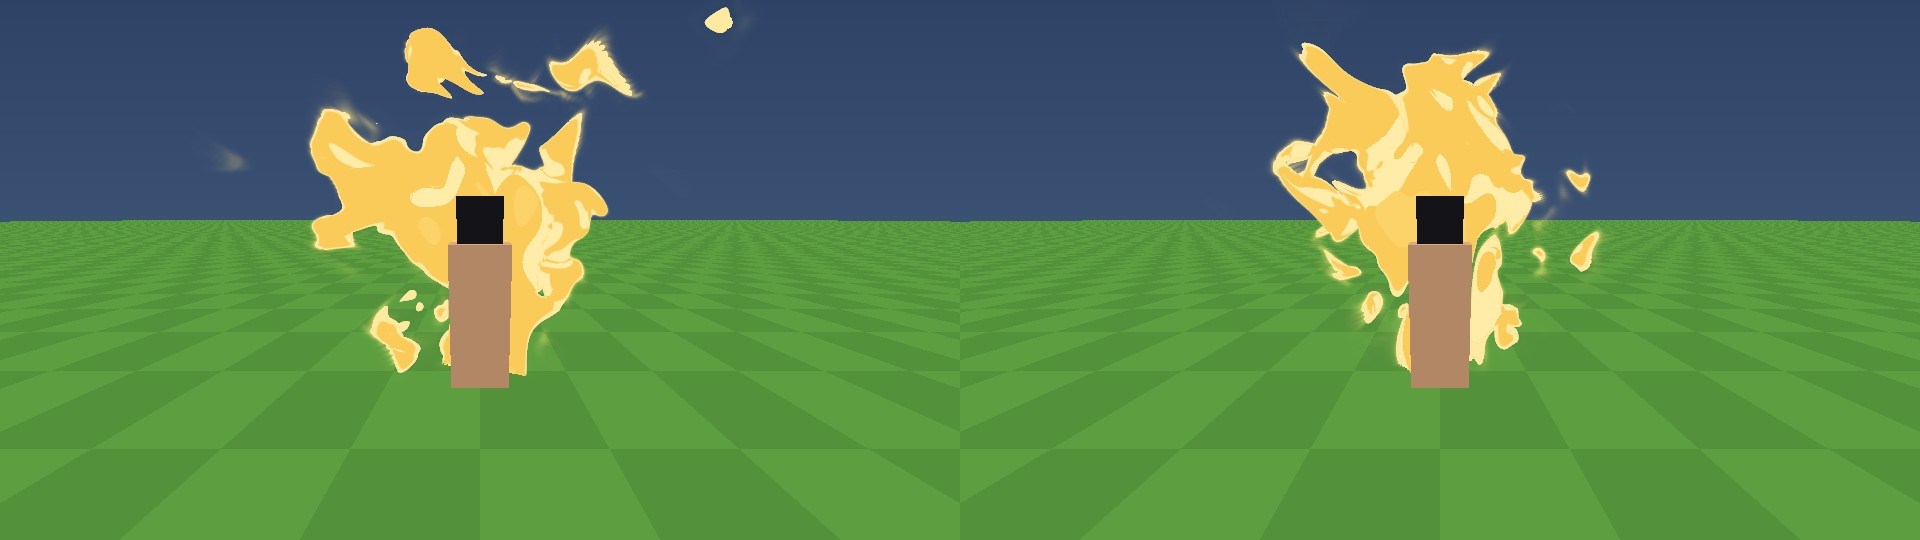
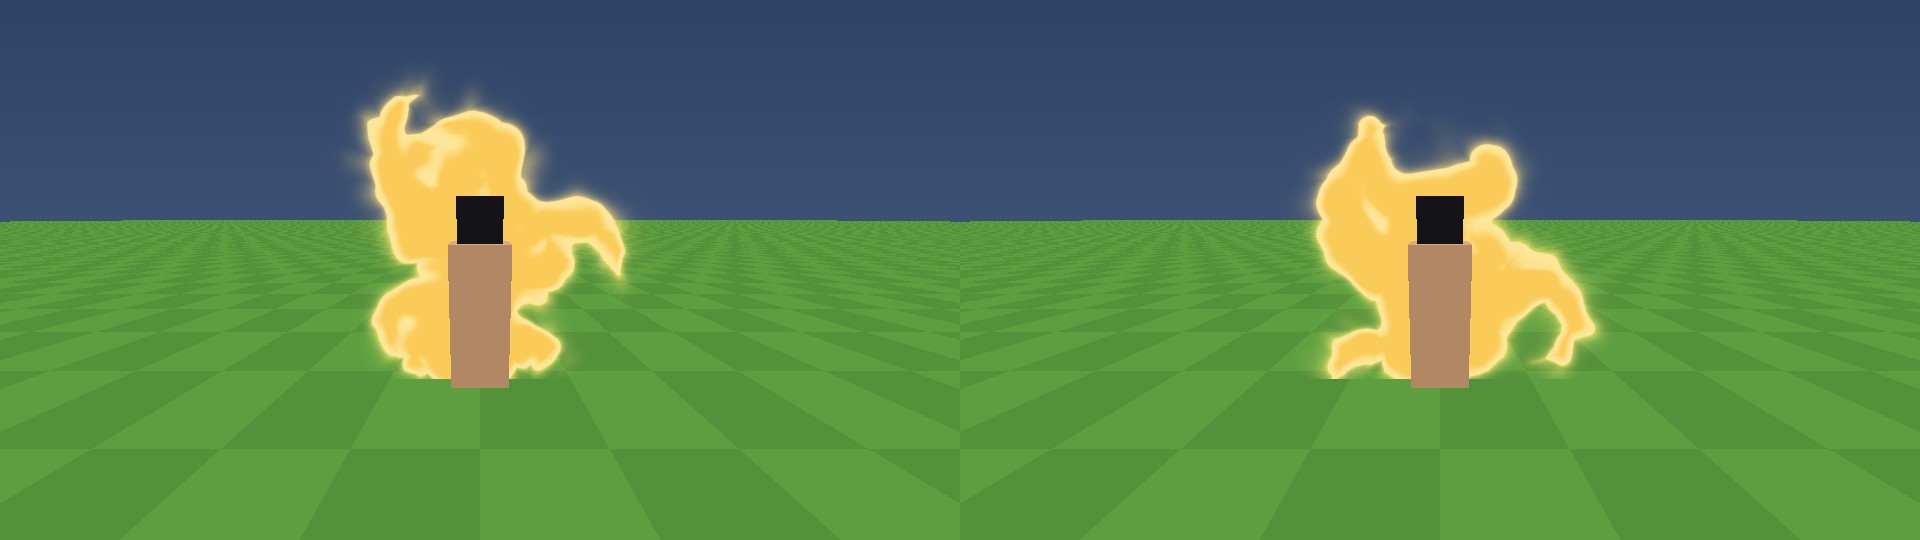
Mera anime: el cuerpo en llamas, un dibujo plano de cara a la cámara
El aura del cuerpo en estilo anime ya no se recorre como un volumen: es
una masa dorada y lisa con brazos de fuego que se rizan, la orilla en
bultos, huecos de cielo y el filo pálido y blando, como en el 2:29.
El Java no cambia. El realista sigue idéntico.

Claude-Session: https://claude.ai/code/session_01TTf7fnrStK2iXDsozaVCTJ

diff --git a/docs/estilo-anime.md b/docs/estilo-anime.md
@@ -214,9 +214,15 @@ Paleta de cada forma cuando `VolStyle.y` es 0: bola 2 (el sol, 6), puño 1, colu
 
 ### Forma nueva: 9, AURA (el cuerpo en llamas)
 
-El fuego que envuelve a Ace cuando arde. Una funda alrededor del cuerpo de la que salen lenguas grandes y separadas, que
-suben, se rizan y llegan a un cuerpo de ancho a cada lado. En anime solo se dibuja la mitad de detrás: el cuerpo se ve entero y el fuego asoma por su contorno, como en la
-serie (2:29-2:31 y 2:53-2:55).
+El fuego que envuelve a Ace cuando arde (2:29-2:31 y 2:53-2:55). En anime no se recorre como un volumen: es un dibujo
+plano en una lámina que pasa por el eje del cuerpo y mira siempre a la cámara. Una masa dorada y lisa detrás del cuerpo
+de la que salen dieciséis brazos de fuego gordos (tres de ellos, de los pies) que nacen, crecen hacia fuera y hacia
+arriba, se rizan en la punta como una ola y se recogen, cada uno con su ciclo de 1,2 a 2 segundos; la orilla va en
+bultos redondos con el surco afilado entre uno y otro, hay huecos de cielo entre los brazos, y todo el contorno lleva
+por dentro una orilla pálida y blanda y por fuera un halo corto. El cuerpo, que queda delante de la lámina, tapa el
+centro: se ve entero y el fuego asoma por su contorno. Antes era una funda recorrida con lenguas rotas, agujeros y
+manchas pálidas por dentro. Lo hace el sombreador solo: el Java manda el mismo volumen. En primera persona (la cámara a
+menos de medio bloque del eje) no se dibuja. Referencia del banco: `docs/banco/cuerpo-en-llamas.jpg`.
 
 - Origen en los pies, `dir` horizontal (hacia donde mira el cuerpo), +Y arriba.
 - `prm`: x = radio del cuerpo (0,45), y = alto (1,9), z = fuerza de las llamas de 0 a 1, w = fase de 0 a 1.
@@ -251,7 +257,7 @@ En estilo anime:
 | Enjōmō | 3 | Un muro amarillo pálido que llena la pantalla. |
 | St. Elmo / Shiranui | 2, 3, 12 y 11 | Shiranui: una llama pequeña en cada mano, del tamaño de la mano (llama con paleta 2, radio 0,20 y alto 0,60, 1:59; con radio 0,32 y alto 0,95 eran más grandes que la cabeza, y una bola de radio 0,22 se veía como una diana), después los arcos naranja rojizo con el centro amarillo (2:00) y las lanzas, cometas amarillo vivo con el filo y el halo naranjas, anchos en la cabeza y en punta por detrás (lanza con `prm.z` = 1 y paleta 12, largo 4,5 y radio 0,45 a 0,55, 2:00,5-2:02). St. Elmo: mientras carga, una llama dorada de borde ondulado le sale del antebrazo hacia atrás y se va ensanchando (chorro con paleta 3, largo 3,2, radio 1,1 y `prm.z` 0,35, 2:09; las lanzas todavía no se ven); al soltar, el brazo barre y deja una banda dorada ancha que cruza por delante de Ace (chorro con paleta 3, largo, siguiendo a la mano, 2:10); las lanzas, columnas amarillo pálido muy largas y de ancho parejo, afiladas solo en la punta (lanza con `prm.z` = 2, paleta 11, largo 11 y radio 0,38, 2:11), que se clavan en el blanco y dejan fuego bajo en el suelo (2:12). |
 | Jūjika | 7, 11, 15, 18, 21 y 3 | Primero la cruz de los dedos: un «+» pequeño y gordo, amarillo limón, delante de las manos cruzadas (cruz con brazo 0,35, paleta 7, 2:14). De ella sale un haz fino amarillo pálido, casi transparente, que llega al blanco en medio segundo con la punta brillante (lanza con `prm.z` = 2, paleta 11 y radio 0,14; con 0,06 de lado era un hilo de un píxel, 2:15-2:16); después, por el haz corre una llamarada roja con el filo naranja y amarillo, alargada, que suelta jirones rojos (chorro o bolas con paleta 15, 2:16-2:17); nace 0,9 bloques por delante de las manos, para que vista desde atrás no tape a Ace. Donde llega, la cruz grande de llamas doradas (cruz con brazo 1,8 a 2,2, paleta 18, 2:22) y enseguida un estallido dorado en estrella, sin bola en el centro: cuatro brazos grandes y largos en línea con los de la cruz (lanzas con `prm.z` = 1, largo 6 y radio 1,4; con radio 2,0 era un erizo gordo y con 1,1 y sin llamas menores, agujas finas) y ocho llamas menores y finas entre ellos, dos en cada hueco (largo 3,2, radio 0,55), todos con la paleta 21 y casi en el plano de cara a quien la lanzó, con no más de 5 grados de inclinación (2:23). No es una cúpula ni lleva el fotograma del golpe. |
-| Cuerpo en llamas | 3 | Una nube grande de lenguas doradas con el filo amarillo pálido y el contorno ondulado, que sube medio bloque o más por encima de la cabeza y sale medio bloque a cada lado; la piel se ve dentro (2:29). Un volumen AURA (forma 9, radio 0,55, alto 2,2 y fuerza 1; con radio 0,45, alto 1,9 y fuerza 0,6 era una funda pequeña) en vez de las llamas sueltas de hombros, brazos y espalda. `prm.w` es una fase fija por jugador, no un reloj. |
+| Cuerpo en llamas | 3 | Una masa dorada y lisa con brazos de fuego rizados, la orilla en bultos, huecos de cielo y el filo pálido y blando, que sube un bloque o más por encima de la cabeza y sale un bloque a cada lado; el cuerpo se ve entero delante (2:29). Es un dibujo plano de cara a la cámara (ver «Forma nueva: 9, AURA»). Un volumen AURA (forma 9, radio 0,55, alto 2,2 y fuerza 1; con radio 0,45, alto 1,9 y fuerza 0,6 era una funda pequeña) en vez de las llamas sueltas de hombros, brazos y espalda. `prm.w` es una fase fija por jugador, no un reloj. |
 | Kyōkaen | 3 | Una cortina dorada, plana y alta, con llamas en punta por arriba y en los extremos, franjas pálidas difusas y líneas pálidas quebradas por dentro (2:44, 2:46). Los tramos de terreno llano seguidos se juntan en un solo muro (ver «Muro (4)»). El vapor, blanco plano. |
 | Dai Enkai | 2 | Primero un aro fino de fuego alrededor de Ace, de bloque y medio de radio (2:58); enseguida un disco naranja plano, pegado al suelo, con el centro liso, dos aros amarillos gordos en la mitad de fuera y la orilla naranja en llamitas pequeñas, de unos tres bloques y medio de radio, con Ace de pie en el centro y sin hueco a sus pies (anillo con `prm.w` = 0, radio 1,0, medio grosor 1,5 y alto 0,35, 2:59; con el grosor igual al radio quedaba un agujero en el centro). Después crece y se levantan las llamas rojas y amarillas con el centro pálido. |
 | Entei | 17, 6 y 13 | Mientras crece, un sol casi blanco con una orilla ancha de llamas amarillas y naranjas (paleta 17, 3:03-3:08). Ya formado, liso, con un filo amarillo muy fino, un resplandor naranja ancho y unas pocas llamaradas finas, amarillo dorado, onduladas y afiladas por las dos puntas, tendidas sobre su cara (las pinta el sombreador en la superficie; paleta 6, 3:09). En anime el sol no lleva llamas sueltas ni la lengua de la mano al sol. Al estallar, una cúpula roja con grietas naranjas y rayos naranjas blandos que llenan el cielo (bola lisa con paleta 13, 3:20-3:35; los rayos los pinta el sombreador, y para que lleguen lejos la esfera que envuelve ese volumen es 2,6 veces la de una bola normal); desde dentro todo se ve teñido de rojo. |
